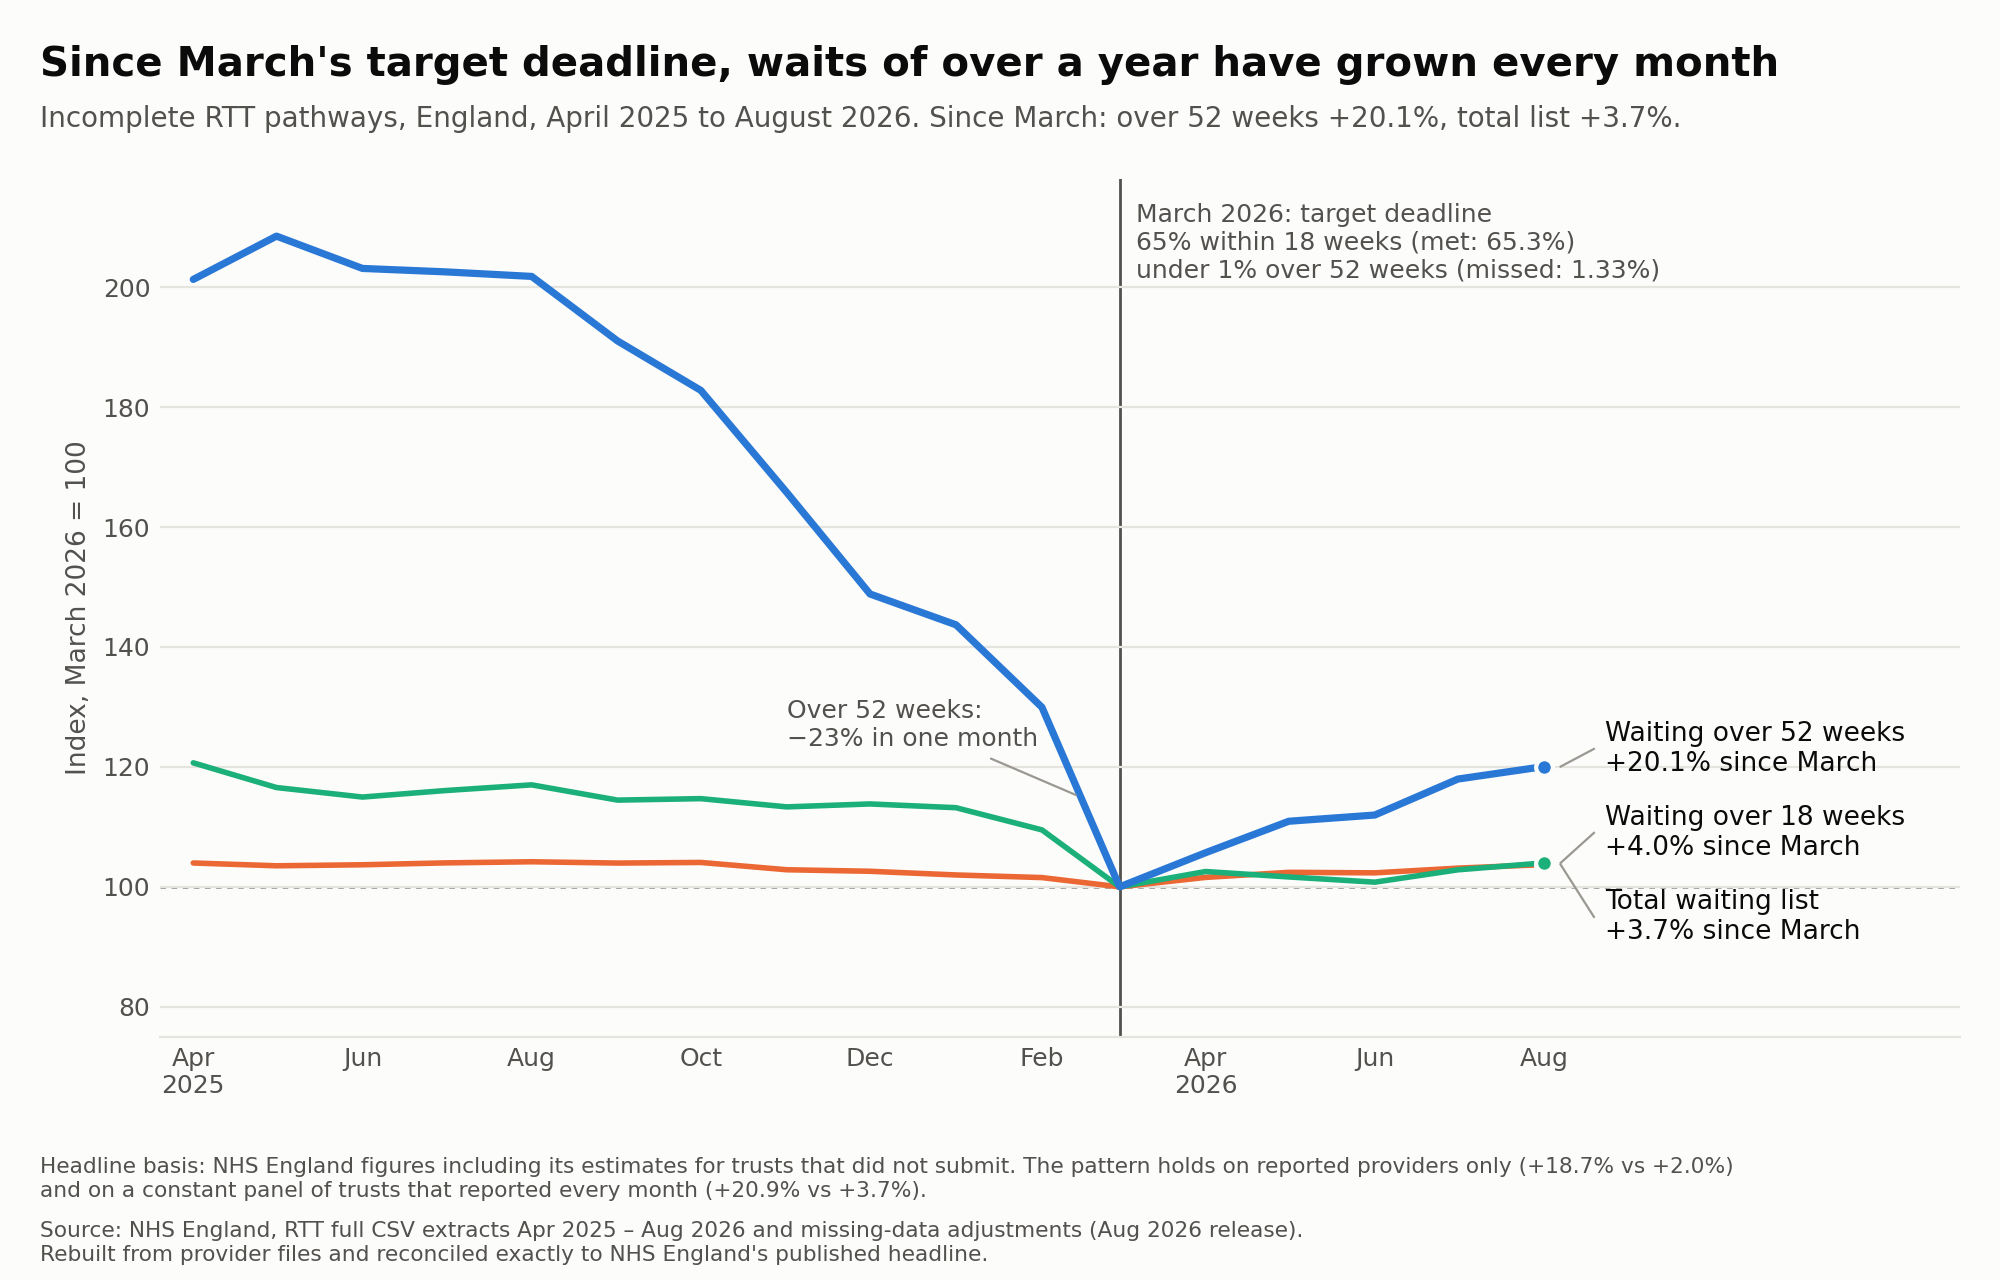
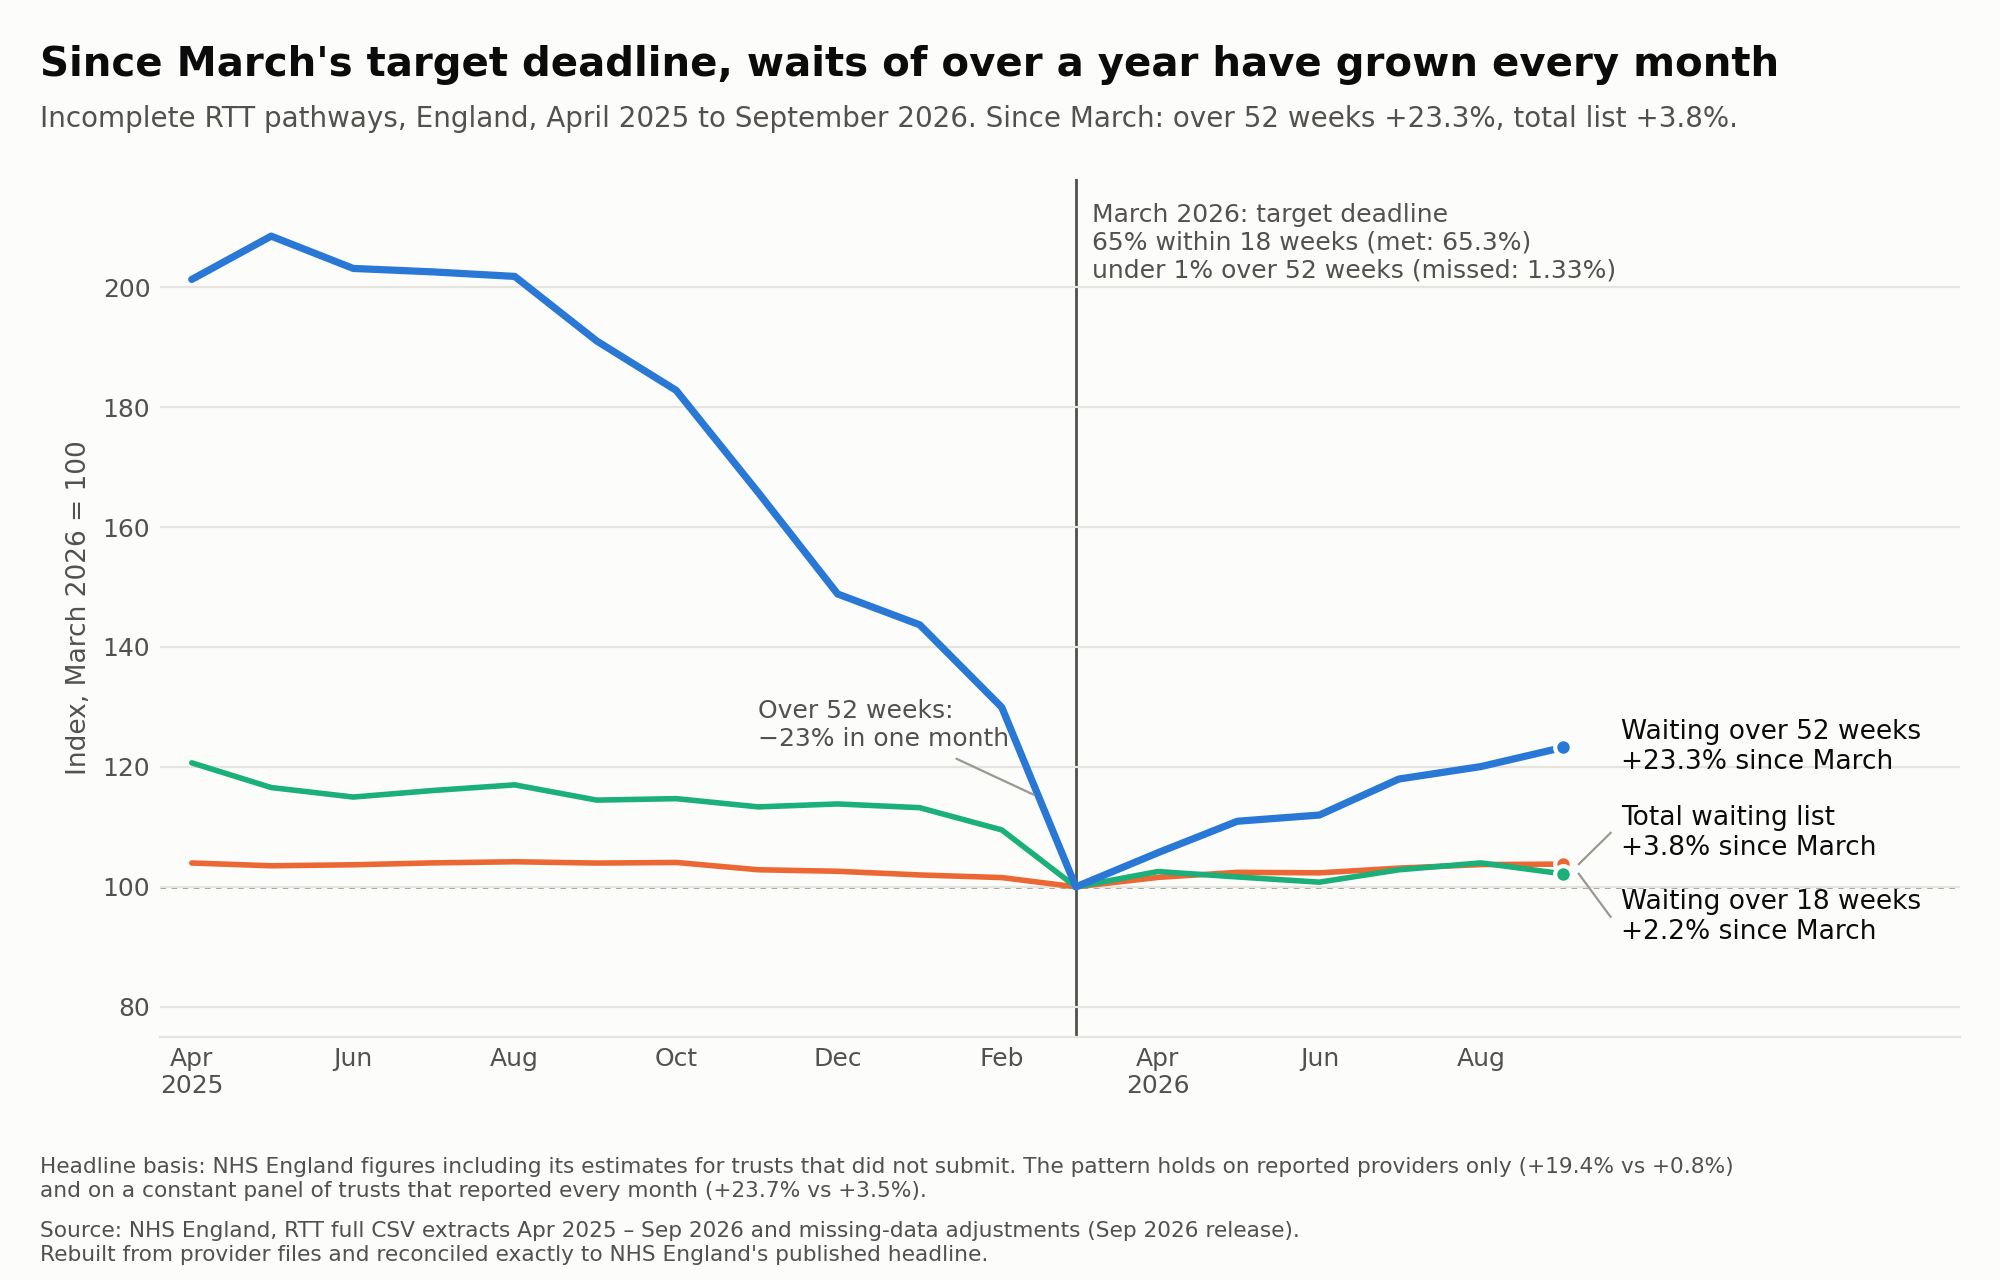
Redraw the chart and three-row table for September 2026
Notebook 09 re-run for September: indexed chart April 2025 - September 2026
(March 2026 = 100) and the three-row table, with alt text from the same numbers.
The two lines that finish close together (total list and over 18 weeks) now get
their label slots in the order the lines end, because that order flipped in
September and the August-fixed slots made the leader lines cross. For August
the placement is unchanged.

diff --git a/data/gold/09_charts/alt_text.md b/data/gold/09_charts/alt_text.md
@@ -2,8 +2,8 @@
 
 ## divergence_since_march.png
 
-Line chart, April 2025 to August 2026, indexed to March 2026 = 100. The number waiting over 52 weeks falls from about 201 in April 2025 to 100 at the March 2026 target deadline, then rises every month to 120.1 in August. The total list and the number waiting over 18 weeks finish at 103.7 and 104.0.
+Line chart, April 2025 to September 2026, indexed to March 2026 = 100. The number waiting over 52 weeks falls from about 201 in April 2025 to 100 at the March 2026 target deadline, then rises every month to 123.3 in September. The total list and the number waiting over 18 weeks finish at 103.8 and 102.2.
 
 ## three_row_table.png
 
-Table. August 2026: total list 7,370,100 (+3.7% since March, -0.5% on a year); over 18 weeks 2,564,009 (+4.0% since March, -11.1% on a year); over 52 weeks 113,339 (+20.1% since March, +1.8% on July, -40.5% on a year).
+Table. September 2026: total list 7,375,866 (+3.8% since March, -0.2% on a year); over 18 weeks 2,518,971 (+2.2% since March, -10.7% on a year); over 52 weeks 116,353 (+23.3% since March, +2.7% on August, -35.5% on a year).
